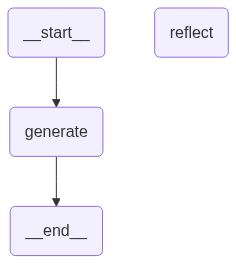
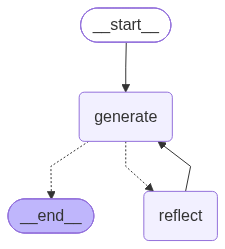
docs: revamp README with Mermaid workflow architecture and agentic guide

diff --git a/main.py b/main.py
@@ -46,7 +46,13 @@ def should_conitue(state:Messagegraph):
         return END
     return REFLECT
 
-builder.add_conditional_edges(GENERATE,should_conitue)
+builder.add_conditional_edges(
+            GENERATE,
+            should_conitue,
+            {
+                REFLECT:REFLECT,
+                END:END
+            })
 builder.add_edge(REFLECT,GENERATE)
 
 graph = builder.compile()

diff --git a/README.md b/README.md
@@ -1,69 +1,142 @@
- refection agent 
-1.poetry init
+# 🔁 LangGraph Reflection Agent
 
-chain.py competed 
+An agentic workflow built with **LangGraph**, **LangChain**, and **Google Gemini 2.5 Flash** that implements the **Reflection Pattern** — where an AI generator drafts content, an influencer critic agent provides targeted feedback, and the generator iteratively refines the post until it reaches peak virality.
 
-chainPromptTemplate => prmpt 
+---
 
-messageplaceholder  => empty space to save ans
+## 📌 Architecture & Workflow
 
-from_messages => stucture ai give , human give'
- 
-llm =ChatGoogleGenerativeAI(model="gemini-1.5-flash")
+The **Reflection Pattern** mimics the human drafting and review loop:
 
-generation_chain = generation_prompt | llm
-reflection_chain = reflection_prompt | llm
+```mermaid
+flowchart TD
+    %% Entry Point
+    __start__([Start: User Tweet Request]) --> generate[Generate Node<br/><i>Drafts Tweet via Gemini 2.5 Flash</i>]
 
+    %% Conditional Check
+    generate --> condition{History Length > 5?}
 
-main.py
-from typing import TypeDict, Annotated -> dicnory give , annotated metadata 
+    %% Decision Branches
+    condition -- "No (Needs Refinement)" --> reflect[Reflect Node<br/><i>Viral Influencer Critique</i>]
+    reflect -->|Appends Critique to History| generate
 
-BaseMessage is the common parent/general type.
+    condition -- "Yes (Max Iterations Reached)" --> __end__([End: Final Polished Tweet])
 
-add_messages → Add messages to state appened new message
+    %% Styling
+    classDef startEnd fill:#10b981,stroke:#059669,stroke-width:2px,color:#ffffff;
+    classDef nodeStyle fill:#3b82f6,stroke:#1d4ed8,stroke-width:2px,color:#ffffff;
+    classDef condStyle fill:#f59e0b,stroke:#d97706,stroke-width:2px,color:#ffffff;
 
-from langchain_core.messages import BaseMessage, HumanMessage
-from langgraph.graph import END, StateGraph
-from langgraph.graph.message import add_messages
-This is very important in LangGraph.Add the new message to the existing messages.
-example :
-class State(TypedDict):
-    messages: Annotated[list[BaseMessage], add_messages]
+    class __start__,__end__ startEnd;
+    class generate,reflect nodeStyle;
+    class condition condStyle;
+```
 
+![Graph Visualization](graph.png)
 
+### The Iteration Cycle
+1. **Generator Node (`generate`)**: An AI acting as a tech influencer writes an initial tweet based on the user's prompt.
+2. **Conditional Edge (`should_continue`)**: Checks if the message history exceeds the iteration limit (`len(history) > 5`). If yes, the process completes (`END`).
+3. **Reflector Node (`reflect`)**: A viral Twitter influencer agent critiques the draft on hooks, length, engagement, hashtags, and virality.
+4. **Iterative Refinement**: The critique is appended back into the message history (`HumanMessage`), prompting the Generator to revise and improve in the next cycle.
 
+---
 
+## 🛠 Project Structure
 
+```text
+langgraph_reflection_agent/
+├── chains.py          # Generator & Reflection prompt templates + Gemini LLM chains
+├── main.py            # LangGraph StateGraph, nodes, conditional edges & execution
+├── graph.png          # Visual export of the compiled LangGraph workflow
+├── pyproject.toml     # Poetry dependencies & project metadata
+└── README.md          # Project documentation
+```
 
+---
 
+## 🧠 Core Components Explained
 
-FYI: wiki usefull:
+### 1. `chains.py` — Prompt Engineering & LCEL
+- **`ChatPromptTemplate.from_messages`**: Structures the conversation history with clear system instructions and contextual dialog.
+- **`MessagesPlaceholder(variable_name="history")`**: Injects dynamic message history into the prompt at runtime so both agents remember prior drafts and critiques.
+- **`ChatGoogleGenerativeAI`**: Leverages `gemini-2.5-flash` for high-speed, cost-effective inference.
+- **LangChain Expression Language (LCEL)**:
+  ```python
+  generation_chain = generation_prompt | llm
+  reflection_chain = reflection_prompt | llm
+  ```
 
+### 2. `main.py` — Graph State & Control Flow
+- **`TypedDict` & `Annotated`**: Defines typed graph state.
+- **`add_messages` Reducer**: Tells LangGraph to **append** new messages to `history` instead of overwriting the previous state.
+  ```python
+  class Messagegraph(TypedDict):
+      history: Annotated[list[BaseMessage], add_messages]
+  ```
+- **Conditional Routing**:
+  ```python
+  def should_conitue(state: Messagegraph):
+      if len(state["history"]) > 5:
+          return END
+      return REFLECT
 
-LLM
-↓
-The brain
+  builder.add_conditional_edges(
+      GENERATE,
+      should_conitue,
+      {
+          REFLECT: REFLECT,
+          END: END
+      }
+  )
+  ```
 
-Prompt
-↓
-Instructions for the brain
+---
 
-Chain
-↓
-Prompt + LLM connected together
+## 🚀 Getting Started
 
-Tool
-↓
-Something the AI can use/do
+### Prerequisites
+- Python **3.12+**
+- [Poetry](https://python-poetry.org/) package manager
+- Google Gemini API Key ([Get one from Google AI Studio](https://aistudio.google.com/))
 
-Agent
-↓
-AI decides which tools/actions to use
+### 1. Installation
+Clone the repository and install dependencies with Poetry:
 
-LangGraph
-↓
-Controls a complex workflow/loop
+```bash
+git clone https://github.com/DineshRocky07/langgraph-learning.git
+cd langgraph-learning/langgraph_reflection_agent
+poetry install
+```
 
-Reflection
-↓
-Generate → Review → Improve
+### 2. Environment Setup
+Create a `.env` file in the project root:
+
+```env
+GOOGLE_API_KEY="your-google-gemini-api-key"
+```
+
+### 3. Run the Agent
+
+```bash
+poetry run python main.py
+```
+
+---
+
+## 💡 Quick Reference: Agentic AI Concepts
+
+| Term | Definition | Role in this Project |
+|---|---|---|
+| **LLM** | The foundational reasoning brain | `gemini-2.5-flash` powering generation & critique |
+| **Prompt** | System instructions and persona definition | Viral tech writer persona & strict critique rubric |
+| **Chain** | Connected Prompt + Model pipeline | `generation_prompt \| llm` |
+| **StateGraph** | Orchestrator of cyclic, stateful workflows | Controls `generate ⇄ reflect` iteration loops |
+| **Reducer (`add_messages`)** | State accumulator function | Automatically appends iterations without losing chat history |
+| **Reflection** | Self-correction / feedback loop | Iteratively transforms average output into high-performing content |
+
+---
+
+## 📜 License
+
+This project is licensed under the MIT License. Created as part of the LangGraph Learning series by [@DineshRocky07](https://github.com/DineshRocky07).
